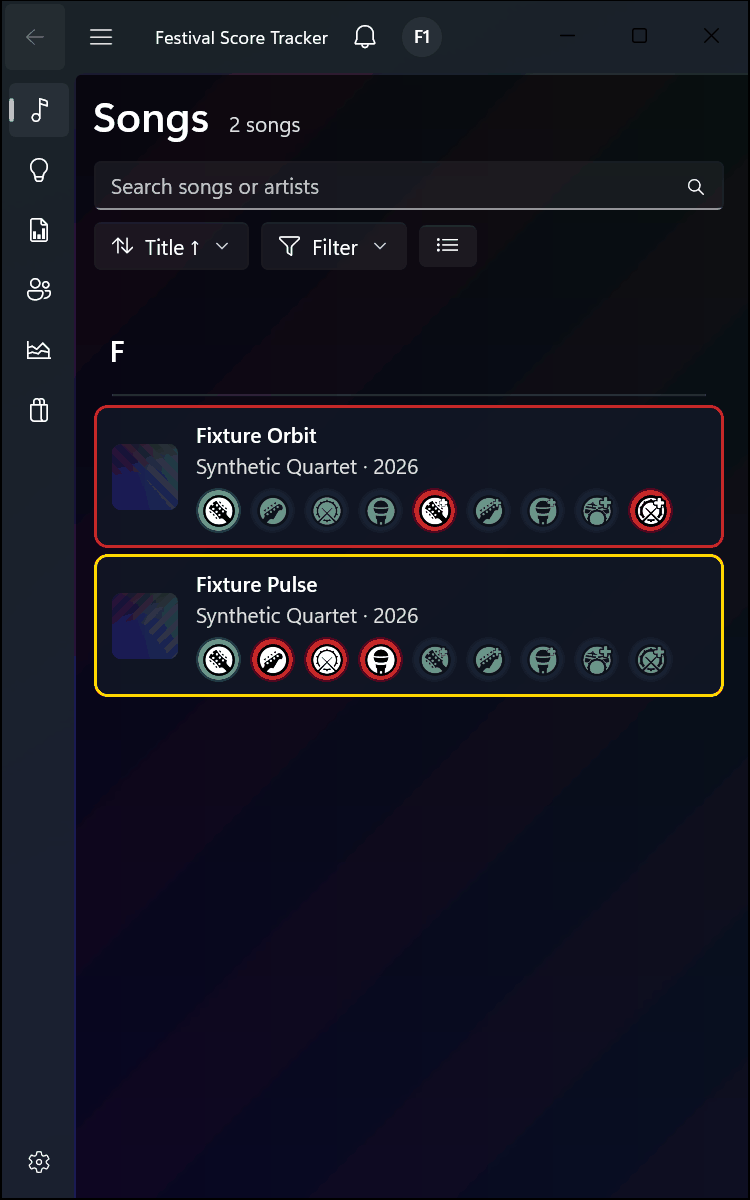
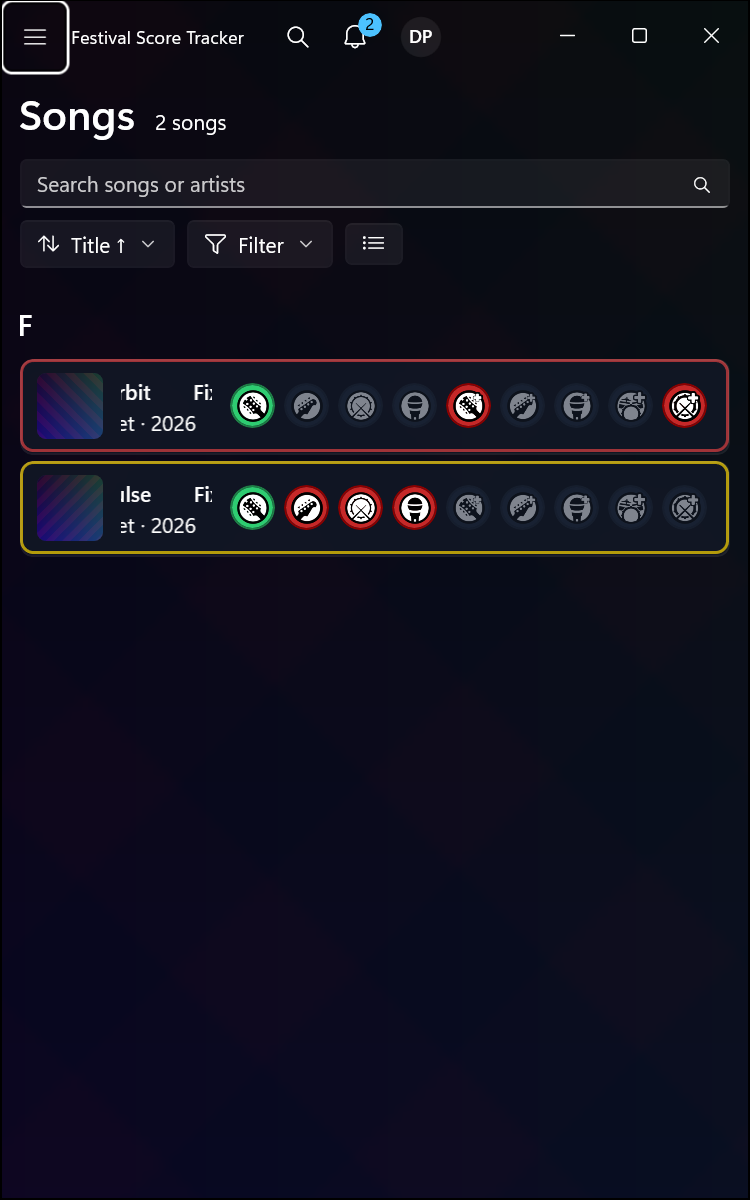
Songs split rebuilds rows on toggle so chips wrap in the list column; fixture screenshots for batch 6 surfaces
Claude-Session: https://claude.ai/code/session_0164oUeL6xQfmxsBEfidEtqg

diff --git a/windows/Festival.App/Pages/SongsPage.xaml.cs b/windows/Festival.App/Pages/SongsPage.xaml.cs
@@ -330,6 +330,9 @@ public sealed partial class SongsPage : Page, IPageBack
         DetailColumn.Width = on ? new GridLength(1, GridUnitType.Star) : new GridLength(0);
         DetailFrame.Visibility = on ? Visibility.Visible : Visibility.Collapsed;
         SongList.SelectionMode = on ? ListViewSelectionMode.Single : ListViewSelectionMode.None;
+        // The list column changed width: rebuild rows so chips wrap or sit inline for it, whatever the last breakpoint was.
+        wideLayout = ListWidth() >= InlineChipsWidth;
+        if (GroupedSongs.Source is not null) RebindGroups();
         ApplyLayout(ActualWidth);
         if (on)
         {
